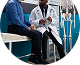
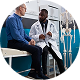
Increased the radius of the circles

diff --git a/lib/user pages/Splash/splash_screen.dart b/lib/user pages/Splash/splash_screen.dart
@@ -45,7 +45,7 @@ class _AnimatedRadialCirclesState extends State<AnimatedRadialCircles>
     super.initState();
     _controller = AnimationController(
       vsync: this,
-      duration: const Duration(seconds: 4),
+      duration: const Duration(seconds: 10),
     )..repeat();
   }
 
@@ -57,13 +57,20 @@ class _AnimatedRadialCirclesState extends State<AnimatedRadialCircles>
 
   @override
   Widget build(BuildContext context) {
-    final double size = MediaQuery.of(context).size.width * 1;
+    // Use the smaller of width or height to ensure responsiveness and fit within screen
+    final double screenSize = Math.min(
+      MediaQuery.of(context).size.width,
+      MediaQuery.of(context).size.height,
+    );
+    final double size = screenSize * 1; // Scale to 90% of smallest dimension
     final double center = size / 2;
+    // Define radii as proportions of the size for larger circles
     final List<double> radii = [
-      size * 0.17,
-      size * 0.33,
-      size * 0.49,
+      size * 0.35, // Innermost circle
+      size * 0.60, // Middle circle
+      size * 0.85, // Outermost circle
     ];
+
     final List<String> images = [
       'assets/images/Ellipse1.png',
       'assets/images/Ellipse2.png',
@@ -78,25 +85,26 @@ class _AnimatedRadialCirclesState extends State<AnimatedRadialCircles>
         children: [
           CustomPaint(
             size: Size(size, size),
-            painter: ConcentricCirclesPainter(),
+            painter: ConcentricCirclesPainter(radii: radii),
           ),
           AnimatedBuilder(
             animation: _controller,
             builder: (context, child) {
               final double angle = _controller.value * 2 * Math.pi;
-              final List<double> phaseOffsets = [0, 2, 4]; // phase offset for each image
+              final List<double> phaseOffsets = [0, 2, 4]; // Phase offset for each image
               return Stack(
                 children: List.generate(3, (i) {
                   final double theta = angle + phaseOffsets[i];
-                  final double x = center + radii[i] * Math.cos(theta) - 16;
-                  final double y = center + radii[i] * Math.sin(theta) - 16;
+                  // Position images exactly on their respective circles
+                  final double x = center + radii[i] * Math.cos(theta) - 17.5; // Adjust for image size
+                  final double y = center + radii[i] * Math.sin(theta) - 17.5;
                   return Positioned(
                     left: x,
                     top: y,
                     child: Image.asset(
                       images[i],
-                      width: 35,
-                      height: 35,
+                      width: size * 0.1, // Scale image size relative to screen
+                      height: size * 0.1,
                     ),
                   );
                 }),
@@ -110,6 +118,10 @@ class _AnimatedRadialCirclesState extends State<AnimatedRadialCircles>
 }
 
 class ConcentricCirclesPainter extends CustomPainter {
+  final List<double> radii;
+
+  ConcentricCirclesPainter({required this.radii});
+
   @override
   void paint(Canvas canvas, Size size) {
     final Paint paint = Paint()
@@ -121,11 +133,11 @@ class ConcentricCirclesPainter extends CustomPainter {
 
     final Paint blackStroke = paint..color = Colors.black;
 
-    // Draw three concentric circles
-    for (int i = 1; i <= 3; i++) {
+    // Draw concentric circles using provided radii
+    for (double radius in radii) {
       canvas.drawCircle(
         Offset(size.width / 2, size.height / 2),
-        size.width * 0.16 * i,
+        radius,
         blackStroke,
       );
     }
